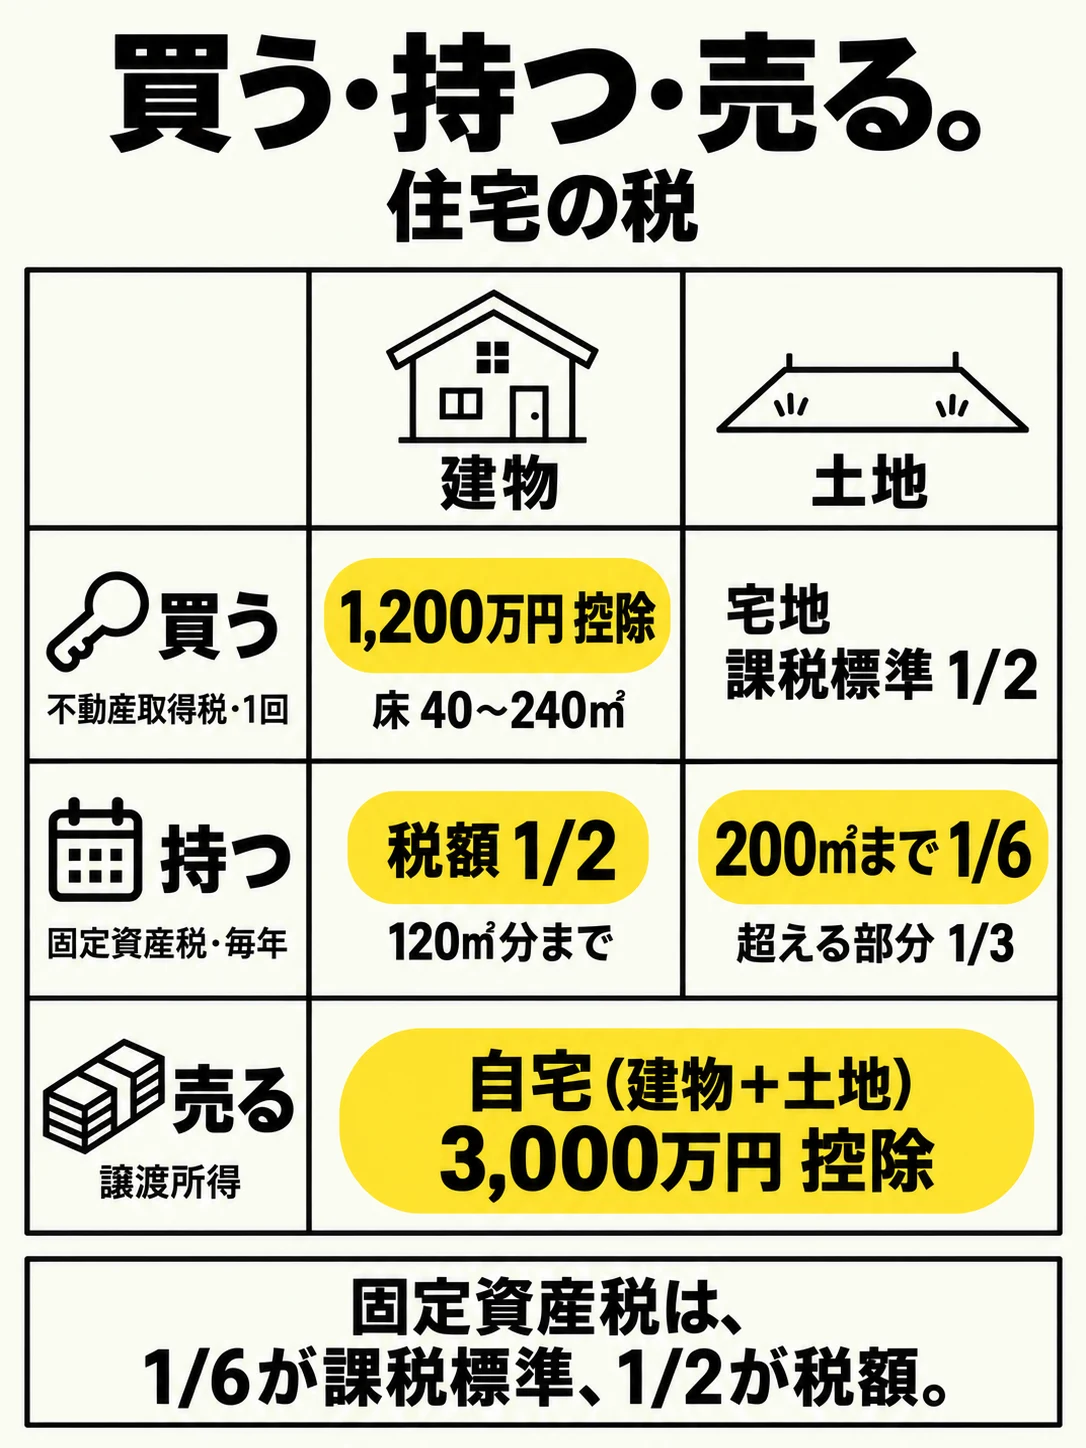
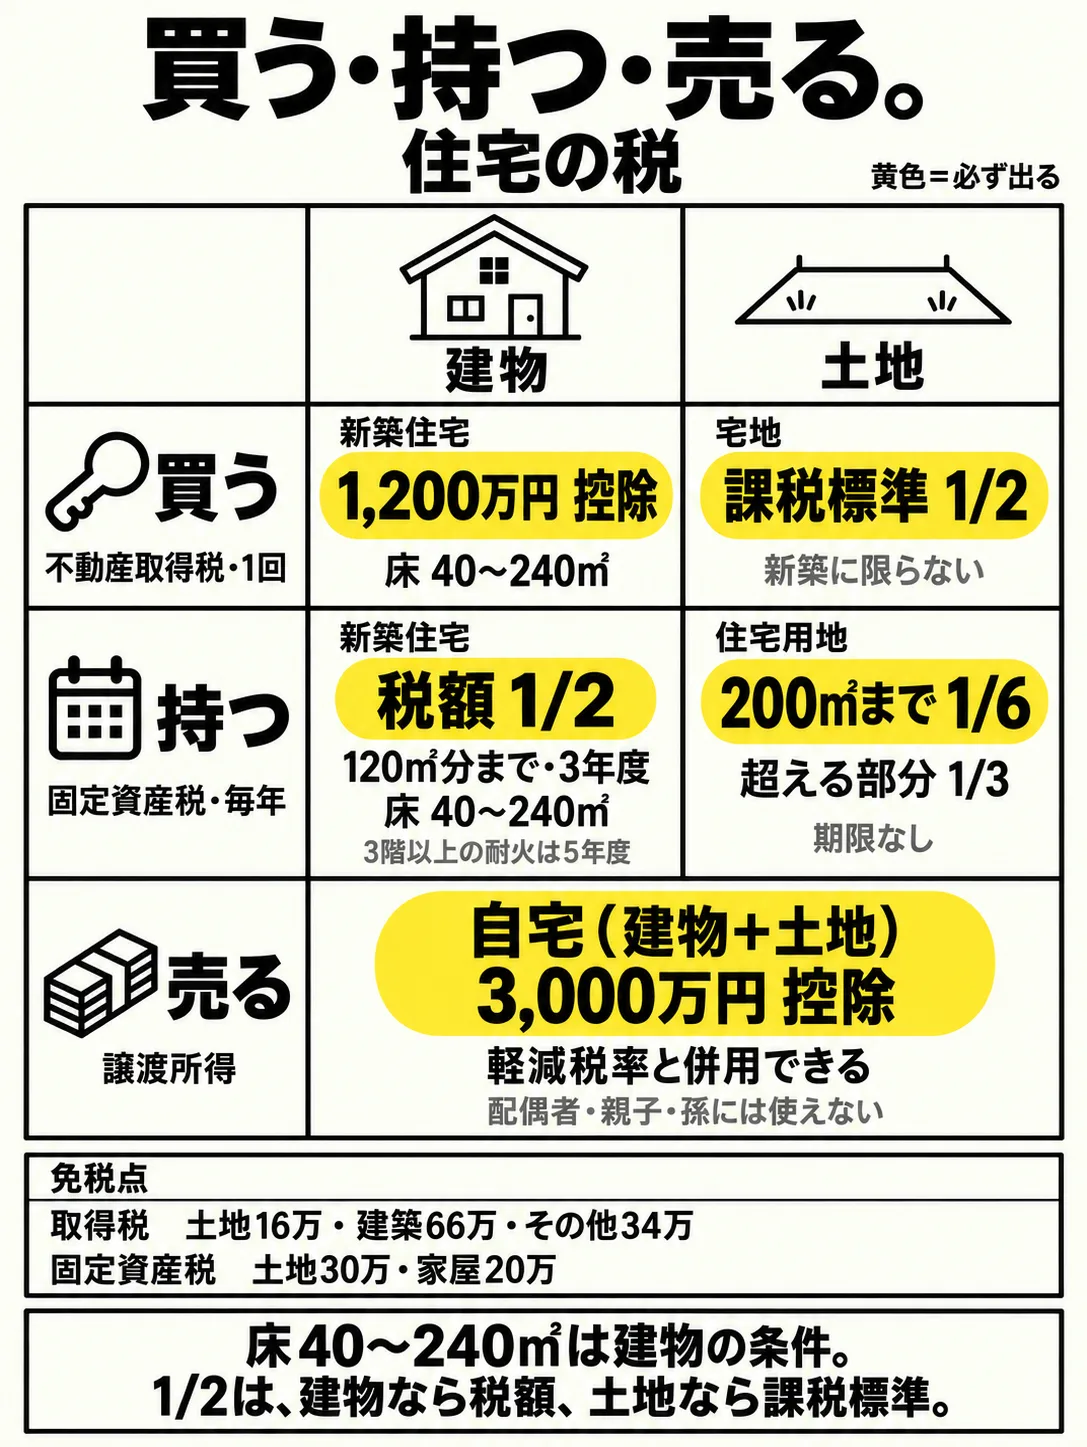
publish: 宅建業法 暗記スライド update

diff --git a/plain-0ee08412cf31b48f.html b/plain-0ee08412cf31b48f.html
@@ -1003,7 +1003,7 @@ body.kf #slides,body.kf #ft{display:none}body.kf #kenri-fig{display:block}
 <li><b>解説後も再発</b>　売主に重説は不要／正誤の言い違い／耐震診断は内容／業者が買主なら8種制限なし</li>
 </ul>
 <div class="fx-figs"><p class="fx-figk">この論点の図（タップで開く）</p><div class="fx-row">
-<button type="button" data-zk="zk44"><img src="takken-zukai-0ee08412/zk44.webp?v=w1" alt="図44 住宅の税" loading="lazy"><span>図44 住宅の税</span></button>
+<button type="button" data-zk="zk44"><img src="takken-zukai-0ee08412/zk44.webp?v=w3" alt="図44 住宅の税" loading="lazy"><span>図44 住宅の税</span></button>
 <button type="button" data-zk="zk46"><img src="takken-zukai-0ee08412/zk46.webp?v=w1" alt="図46 地価公示" loading="lazy"><span>図46 地価公示</span></button>
 <button type="button" data-zk="zk48"><img src="takken-zukai-0ee08412/zk48.webp?v=w1" alt="図48 統計" loading="lazy"><span>図48 統計</span></button>
 <button type="button" data-zk="zk45"><img src="takken-zukai-0ee08412/zk45.webp?v=w1" alt="図45 取戻しの公告" loading="lazy"><span>図45 取戻しの公告</span></button>
@@ -2608,7 +2608,7 @@ body.kf #slides,body.kf #ft{display:none}body.kf #kenri-fig{display:block}
 </figure>
 <figure class="zk" id="zk44">
 <figcaption><span class="no">図44</span><b>買う・持つ・売る。</b><button class="zk-go" data-go="48">スライド48 →</button></figcaption>
-<a href="takken-zukai-0ee08412/zk44.webp?v=w1" target="_blank" rel="noopener" aria-label="図44を拡大"><img decoding="async" src="takken-zukai-0ee08412/zk44.webp?v=w1" alt="住宅の税。買う＝不動産取得税（1回）：建物は床40〜240平方メートルで1,200万円控除、土地は宅地の課税標準1/2。持つ＝固定資産税（毎年）：建物は税額1/2（120平方メートル分まで）、土地は200平方メートルまで課税標準1/6、超える部分1/3。売る＝譲渡所得：自宅（建物と土地）を売ったら3,000万円控除。固定資産税は、1/6が課税標準、1/2が税額。" loading="lazy" width="1086" height="1448"></a>
+<a href="takken-zukai-0ee08412/zk44.webp?v=w3" target="_blank" rel="noopener" aria-label="図44を拡大"><img decoding="async" src="takken-zukai-0ee08412/zk44.webp?v=w3" alt="住宅の税。買う＝不動産取得税（1回）：建物は床40〜240平方メートルで1,200万円控除、土地は宅地の課税標準1/2。持つ＝固定資産税（毎年）：建物は税額1/2（120平方メートル分まで）、土地は200平方メートルまで課税標準1/6、超える部分1/3。売る＝譲渡所得：自宅（建物と土地）を売ったら3,000万円控除。固定資産税は、1/6が課税標準、1/2が税額。" loading="lazy" width="1086" height="1448"></a>
 <p class="zk-note"><b>1,200万円は取得税、税額1/2は固定資産税、3,000万円は売った時。</b> 3,000万円は建物と土地をまとめた自宅の売却に使う。</p>
 <details class="zk-sources"><summary>根拠・条件</summary><p>不動産取得税の新築住宅の控除1,200万円と固定資産税の新築住宅の減額（税額1/2、120㎡分まで、一戸建て3年・中高層耐火5年）の床面積は2026年4月から40㎡以上240㎡以下。宅地の取得税の課税標準1/2は2027年3月31日までの特例。住宅用地の固定資産税の課税標準は200㎡までが1/6、超える部分が1/3。居住用財産の3,000万円特別控除は家屋とその敷地の譲渡に適用（特別な関係者への譲渡などは不可）。</p><a href="https://laws.e-gov.go.jp/law/325AC0000000226" target="_blank" rel="noopener">地方税法73条の14・349条の3の2・附則11条の5・15条の6</a> ／ <a href="https://www.nta.go.jp/taxes/shiraberu/taxanswer/joto/3302.htm" target="_blank" rel="noopener">国税庁：3,000万円の特別控除</a></details>
 </figure>
